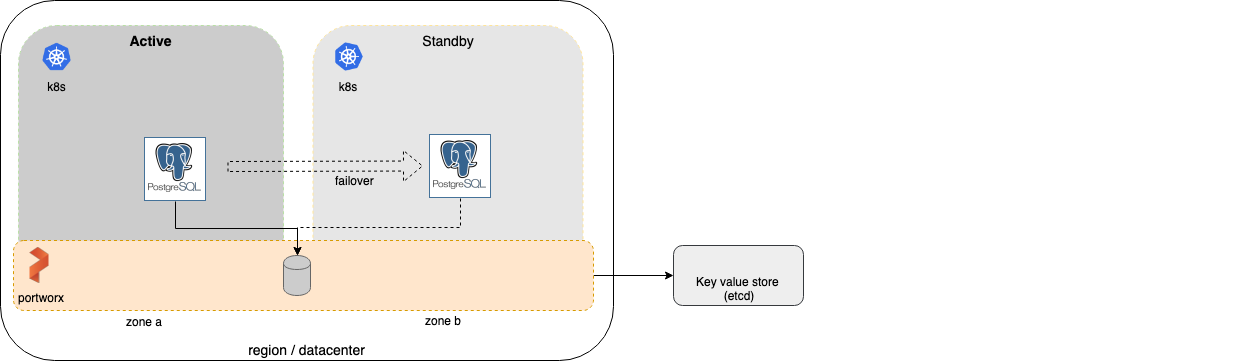
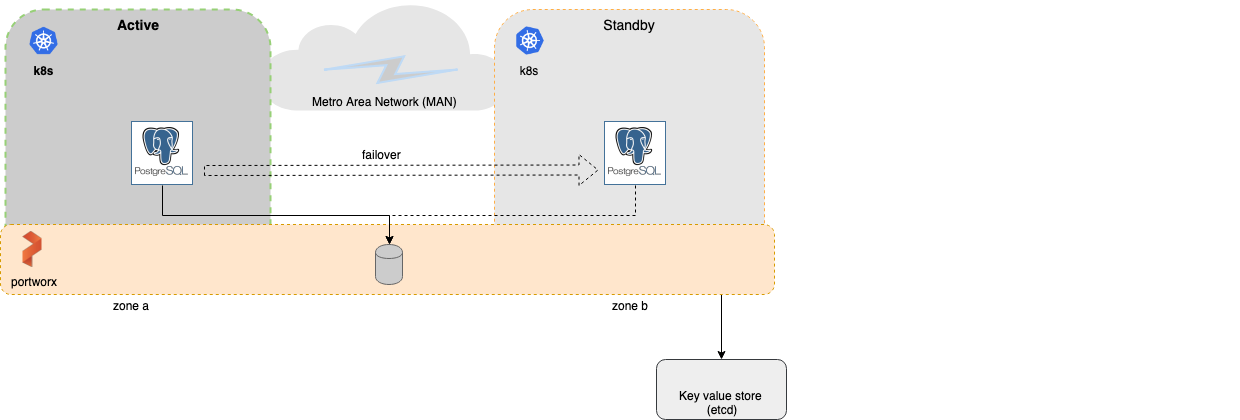
Add async DR placeholder, update landing text

diff --git a/content/portworx-install-with-kubernetes/disaster-recovery/_index.md b/content/portworx-install-with-kubernetes/disaster-recovery/_index.md
@@ -9,12 +9,12 @@ This section describes Disaster Recovery (DR) options between *multiple* Kuberne
 
 There are 2 primary options for this:
 
-1. Nodes are in the *same* region/datacenter
+1. Nodes are in the *same* Metro Area Network ([MAN](https://en.wikipedia.org/wiki/Metropolitan_area_network))
 2. Nodes are across *different* regions/datacenters
 
 Choosing between these options depends on how your cluster nodes are laid out. Below section helps you make that choice.
 
-## 1. Nodes are in the same region/datacenter
+## 1. Nodes are in the Metro Area Network (MAN)
 
 ![Portworx metro overview](/img/px-metro-overview.png)
 
@@ -22,16 +22,18 @@ Choosing between these options depends on how your cluster nodes are laid out. B
 
 You should use this option when:
 
-* Nodes in all your Kubernetes clusters are in the same region or datacenter. They could reside in separate zones or racks.
-* The network latency between the nodes is low. Low here is defined as network latencies lower than 500ms.
+* Nodes in all your Kubernetes clusters are in the same **Metro Area Network** ([MAN](https://en.wikipedia.org/wiki/Metropolitan_area_network)). These could be nodes that are in
+  * The same cloud region. They can be in different zones.
+  * The same datacenter or datacenters that are just 50 miles apart.
+* The network latency between the nodes is lower than ~500ms.
 
 ### What
 
 The option has the following characteristics:
 
-* A single Portworx cluster that streches across multiple Kubernetes clusters.
-* Portworx installation on all clusters use a common external key-value store (e.g etcd).
-* Volumes are automatically replicated across the Kubernetes clusters as they shared the same Portworx fabric.
+* A **single Portworx cluster** that streches across multiple Kubernetes clusters.
+* Portworx installation on all clusters use a common **external key-value store** (e.g etcd).
+* Volumes are automatically **replicated** across the Kubernetes clusters as they shared the same Portworx fabric.
 
 ### How
 
@@ -62,4 +64,4 @@ The option has the following characteristics:
 
 Click on the section below to instructions on how to setup this option.
 
-{{< widelink url="/portworx-install-with-kubernetes/disaster-recovery/px-metro" >}}How to setup Asynchronous DR{{</widelink>}}
+{{< widelink url="/portworx-install-with-kubernetes/disaster-recovery/async-dr" >}}How to setup Asynchronous DR{{</widelink>}}

diff --git a/content/portworx-install-with-kubernetes/disaster-recovery/async-dr/_index.md b/content/portworx-install-with-kubernetes/disaster-recovery/async-dr/_index.md
@@ -1,0 +1,7 @@
+---
+title: Asynchronous DR
+linkTitle: Asynchronous DR
+keywords: cloud, backup, restore, snapshot, DR, migration, px-motion
+description: How to achieve asynchronous DR across Kubernetes clusters using schduled migrations
+---
+
